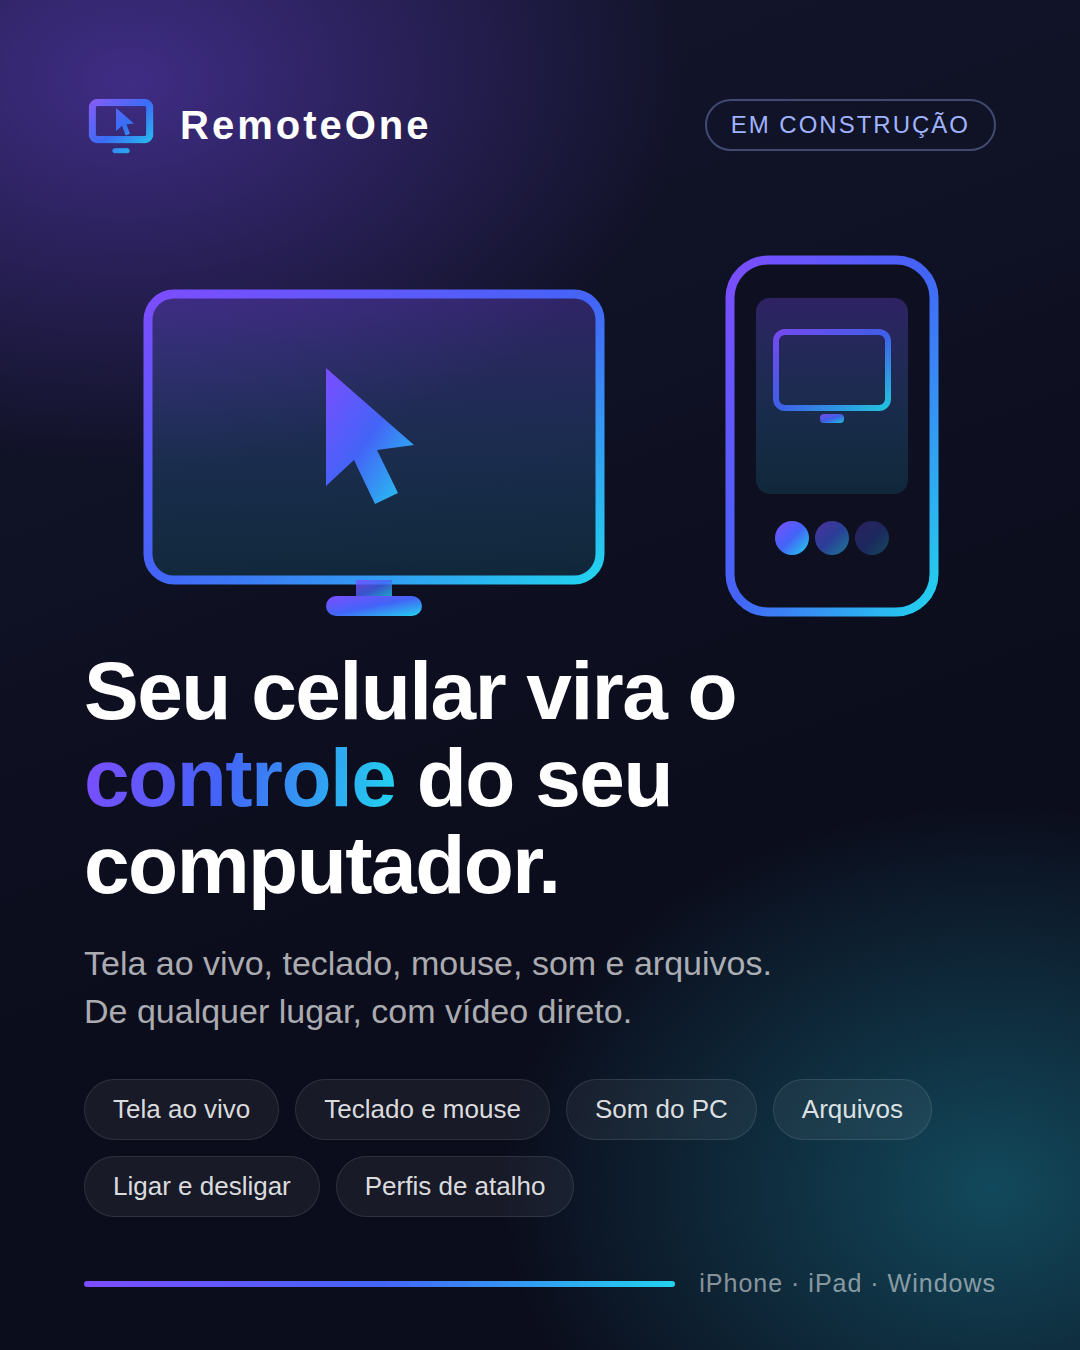
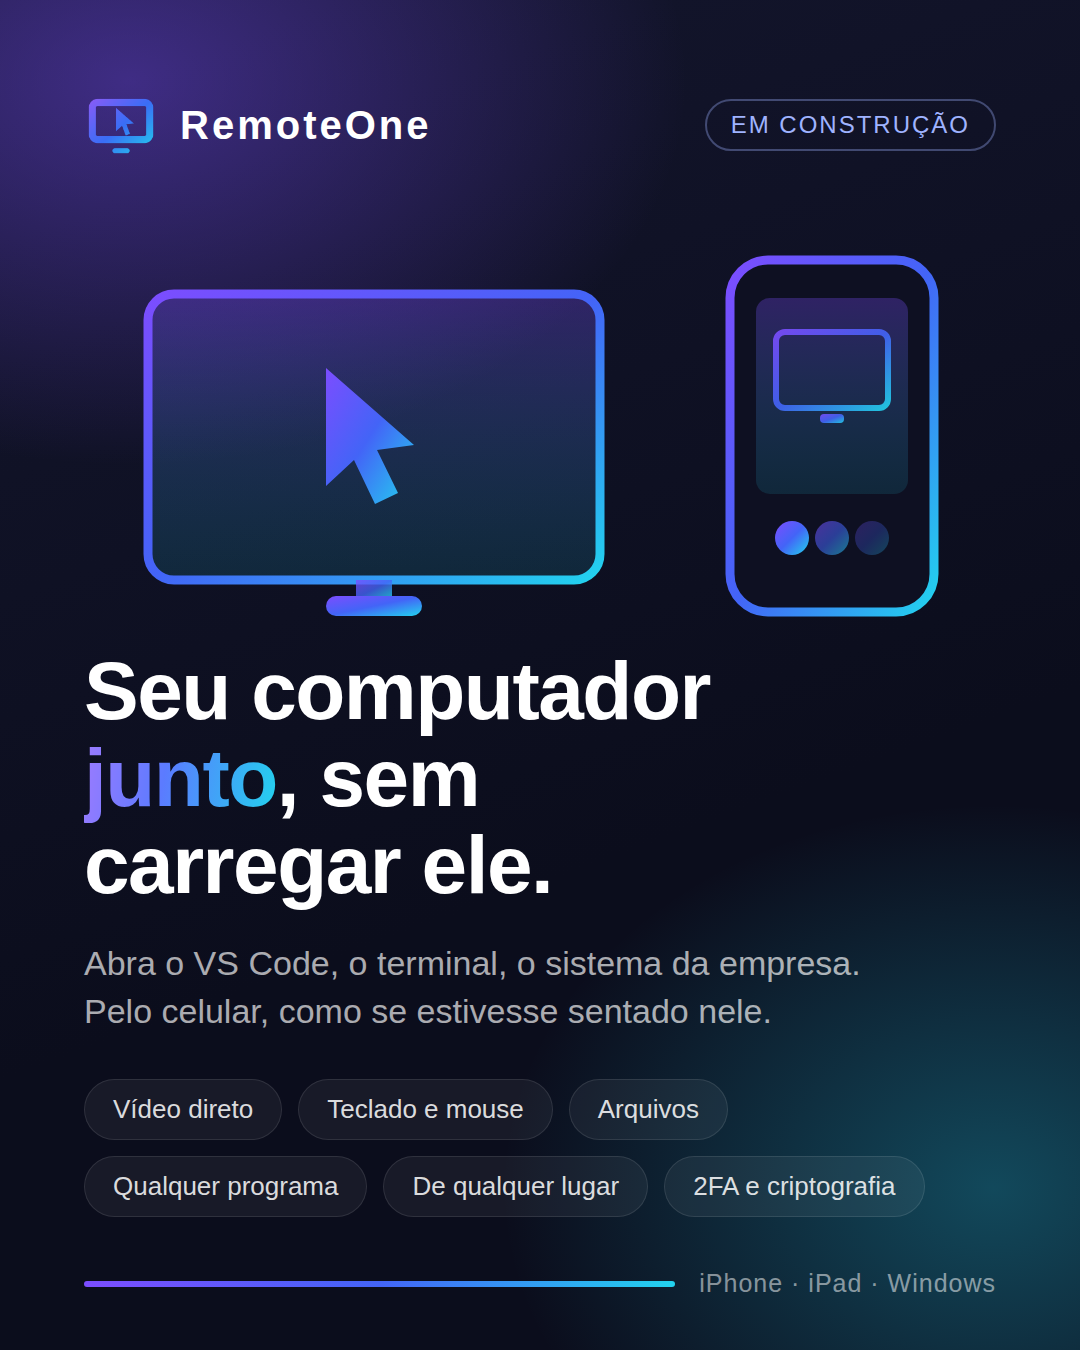
Post alinhado ao uso real: acesso de emergência, não conveniência
A peça vendia uso doméstico - "som do PC", "perfis de atalho" - e a
história verdadeira do projeto é outra: o sistema da empresa cai, você
está viajando sem o computador, e a correção está numa máquina a
centenas de quilômetros.

Isso muda o produto de conveniência para emergência profissional, que é
onde as pessoas pagam. A peça passa a dizer o que sustenta essa
história: vídeo direto, teclado e mouse, arquivos, qualquer programa, de
qualquer lugar, com 2FA.

Título novo pelo mesmo motivo: "seu computador junto, sem carregar ele"
diz o benefício, enquanto "controle do seu computador" descrevia o
mecanismo - e mecanismo é o que todo concorrente também tem.

Claude-Session: https://claude.ai/code/session_01NLULmonCbXNPobYp9g7Y1Z

diff --git a/brand/social/post.html b/brand/social/post.html
@@ -17,7 +17,7 @@
 
   h1 { color:#fff; font-size:82px; font-weight:800; line-height:1.06;
        letter-spacing:-1.5px; margin-top:auto; }
-  h1 .g { background:linear-gradient(100deg,#7C4DFF,#4364F7 45%,#22D3EE);
+  h1 .g { background:linear-gradient(100deg,#9D7BFF,#5B7BFF 42%,#22D3EE);
           -webkit-background-clip:text; -webkit-text-fill-color:transparent; }
   p.sub { color:rgba(255,255,255,.66); font-size:34px; line-height:1.42; margin-top:30px; }
 
@@ -70,16 +70,16 @@
     </svg>
   </div>
 
-  <h1>Seu celular vira o<br><span class="g">controle</span> do seu<br>computador.</h1>
-  <p class="sub">Tela ao vivo, teclado, mouse, som e arquivos.<br>De qualquer lugar, com vídeo direto.</p>
+  <h1>Seu computador<br><span class="g">junto</span>, sem<br>carregar ele.</h1>
+  <p class="sub">Abra o VS Code, o terminal, o sistema da empresa.<br>Pelo celular, como se estivesse sentado nele.</p>
 
   <div class="chips">
-    <div class="chip">Tela ao vivo</div>
+    <div class="chip">Vídeo direto</div>
     <div class="chip">Teclado e mouse</div>
-    <div class="chip">Som do PC</div>
     <div class="chip">Arquivos</div>
-    <div class="chip">Ligar e desligar</div>
-    <div class="chip">Perfis de atalho</div>
+    <div class="chip">Qualquer programa</div>
+    <div class="chip">De qualquer lugar</div>
+    <div class="chip">2FA e criptografia</div>
   </div>
 
   <div class="rodape"><div class="barra"></div><span>iPhone · iPad · Windows</span></div>

diff --git a/brand/social/README.md b/brand/social/README.md
@@ -38,6 +38,9 @@ Image.open('_post.png').convert('RGB').crop((0,0,1080,1350)).save('remoteone-pos
   ~40px na maioria das telas; qualquer palavra ali vira borrão. O desenho fica
   dentro de um círculo seguro, e as quinas são só fundo.
 - **O post é 4:5**, não quadrado: ocupa mais altura no feed pelo mesmo scroll.
+- **O gradiente da palavra em destaque começa claro.** Ele atravessa uma
+  palavra curta; começando no violeta escuro da paleta, as primeiras letras
+  somem no fundo. É a mesma cor da marca, deslocada para o claro.
 - **A ilustração não tem seta nem ondas.** O celular mostra o mesmo monitor que
   está atrás dele - o espelhamento já diz que um comanda o outro, e as versões
   com arcos de sinal pareciam adorno solto.
